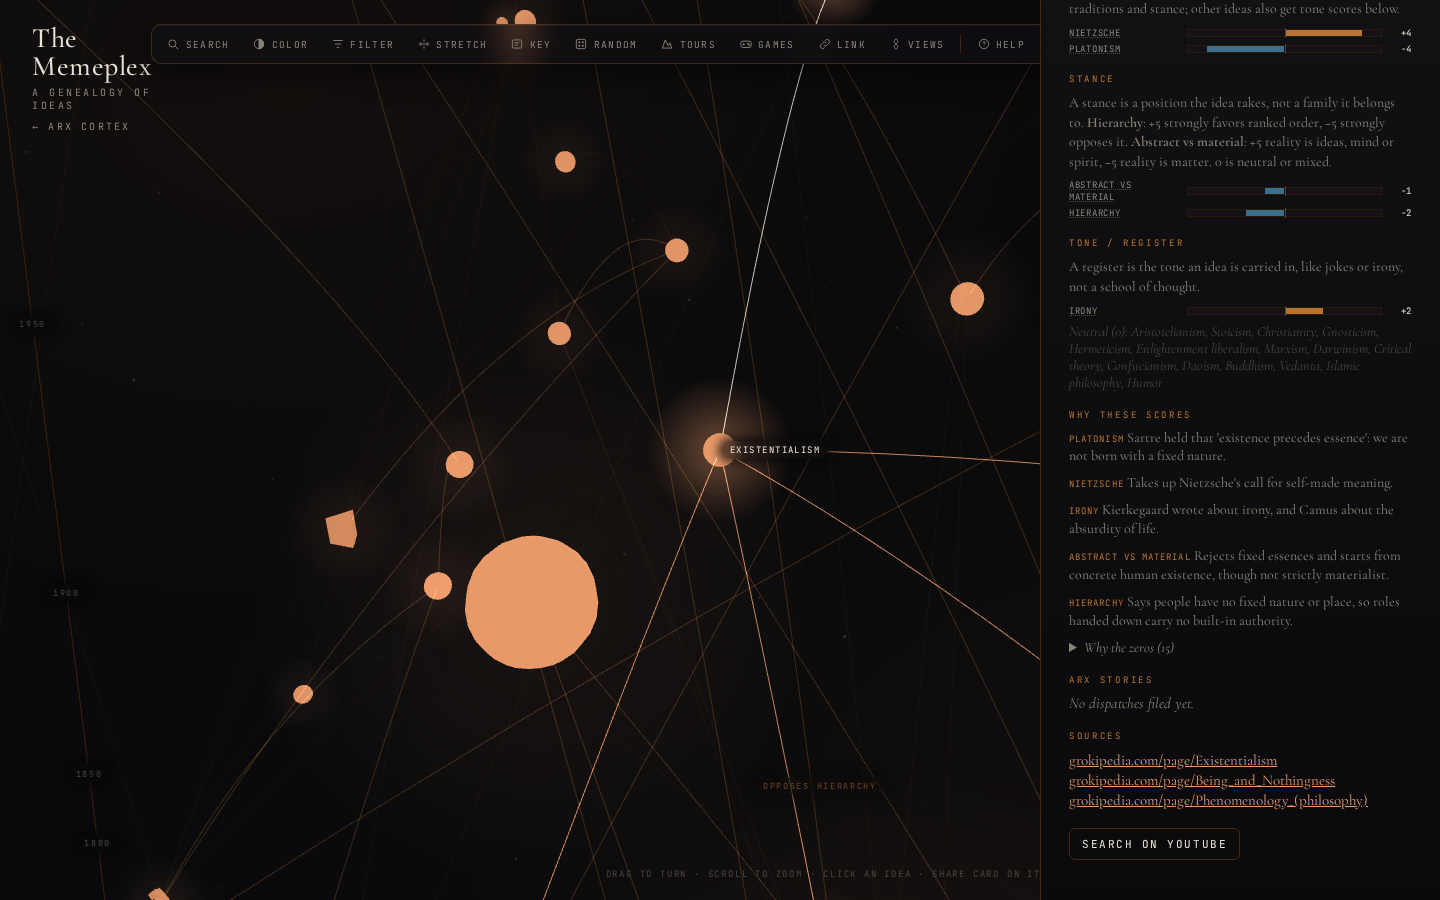
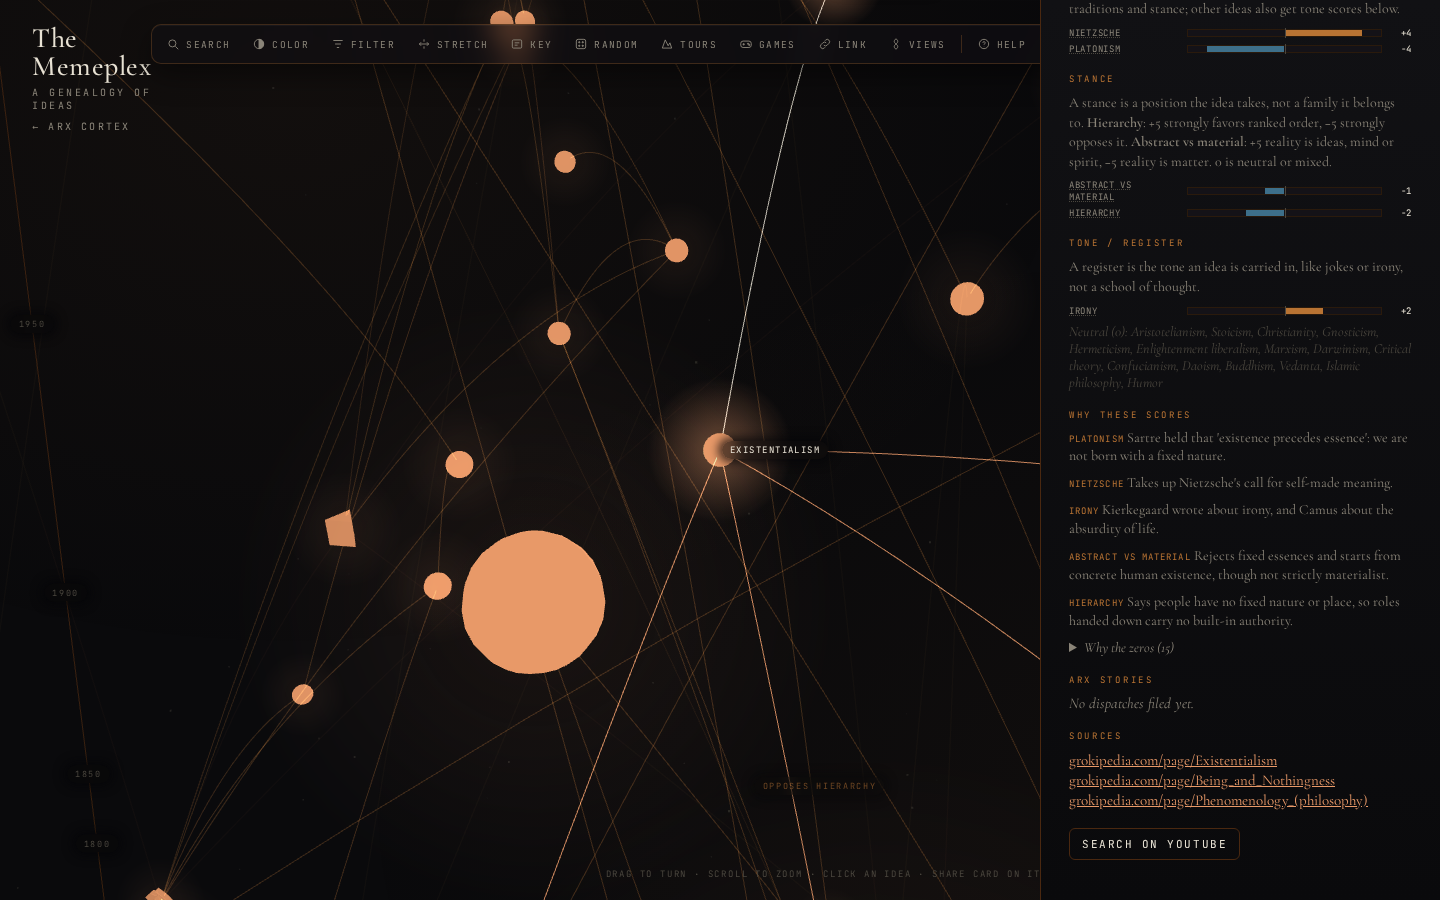
YouTube link: search the idea name only

diff --git a/docs/review-shots/youtube-link/memeplex.html b/docs/review-shots/youtube-link/memeplex.html
@@ -633,8 +633,7 @@ applyLens('');
 /* ---------- Panel ---------- */
 const panel = document.getElementById('panel');
 /* YouTube search link: plain search URL, no embed, no API key. Adds a context word so the results are about the idea. */
-const YT_CTX = { religion: ' religion', politics: ' political ideology', philosophy: ' philosophy', culture: ' history' };
-const ytUrl = d => 'https://www.youtube.com/results?search_query=' + encodeURIComponent(d.name + (YT_CTX[[].concat(d.domain || [])[0]] || ' history'));
+const ytUrl = d => 'https://www.youtube.com/results?search_query=' + encodeURIComponent(d.name);
 const esc = s => String(s).replace(/[&<>"']/g, c => ({ '&': '&amp;', '<': '&lt;', '>': '&gt;', '"': '&quot;', "'": '&#39;' }[c]));
 const fmtYear = (y, ap) => (ap ? 'c. ' : '') + (y < 0 ? `${-y} BC` : `AD ${y}`);
 let current = null;

diff --git a/docs/review-shots/youtube-link/t_youtube.py b/docs/review-shots/youtube-link/t_youtube.py
@@ -13,14 +13,14 @@ async def run():
         await pg.route("**/arx-memeplex/"+f,(lambda f:(lambda r,q=None:r.fulfill(status=200,content_type="application/json",body=open(R+f).read())))(f))
       await pg.add_init_script("localStorage.setItem('memeplex-help-seen','1')")
       await pg.goto("http://localhost:8784/memeplex.html?intro=none"); await pg.wait_for_function("window.__memeplex && __memeplex.ideas && __memeplex.ideas.length",polling=500); await pg.wait_for_timeout(3000)
-      for iid,ctxw in [('existentialism',' philosophy'),('social_justice_movement',None)]:
+      for iid in ['existentialism','social_justice_movement']:
         await pg.evaluate(f"__memeplex.focusIdea('{iid}')"); await pg.wait_for_timeout(1500)
         a=pg.locator('#panel a',has_text='Search on YouTube')
         if await a.count()!=1: fail.append((tag,iid,'count')); continue
         h=await a.get_attribute('href'); t=await a.get_attribute('target'); rel=await a.get_attribute('rel')
         name=await pg.evaluate(f"__memeplex.ideas.find(d=>d.id=='{iid}').name")
         q=urllib.parse.parse_qs(urllib.parse.urlparse(h).query).get('search_query',[''])[0]
-        ok=h.startswith('https://www.youtube.com/results?search_query=') and t=='_blank' and 'noopener' in rel and q.startswith(name) and (ctxw is None or q==name+ctxw)
+        ok=h.startswith('https://www.youtube.com/results?search_query=') and t=='_blank' and 'noopener' in rel and q==name
         print(tag,iid,ok,h)
         if not ok: fail.append((tag,iid,h))
         await a.scroll_into_view_if_needed(); await pg.wait_for_timeout(400)

diff --git a/docs/review-shots/youtube-link/README.md b/docs/review-shots/youtube-link/README.md
@@ -1,5 +1,5 @@
 # Search on YouTube link
 
-At the bottom of each idea panel there is a link labeled "Search on YouTube". It opens a YouTube search in a new tab (rel=noopener). The query is the idea name plus a context word taken from its first domain: philosophy, religion, political ideology, or history. There are no embeds and no API keys.
+At the bottom of each idea panel there is a link labeled "Search on YouTube". It opens a YouTube search in a new tab (rel=noopener). The query is just the idea's name. There are no embeds and no API keys.
 
 Test: t_youtube.py (desktop + phone). Screenshots: yt-*.png
